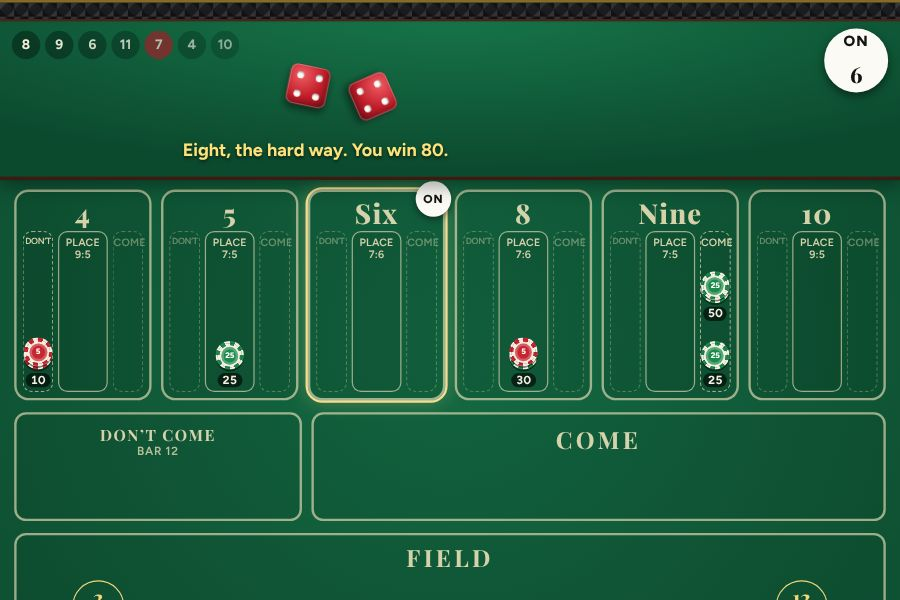
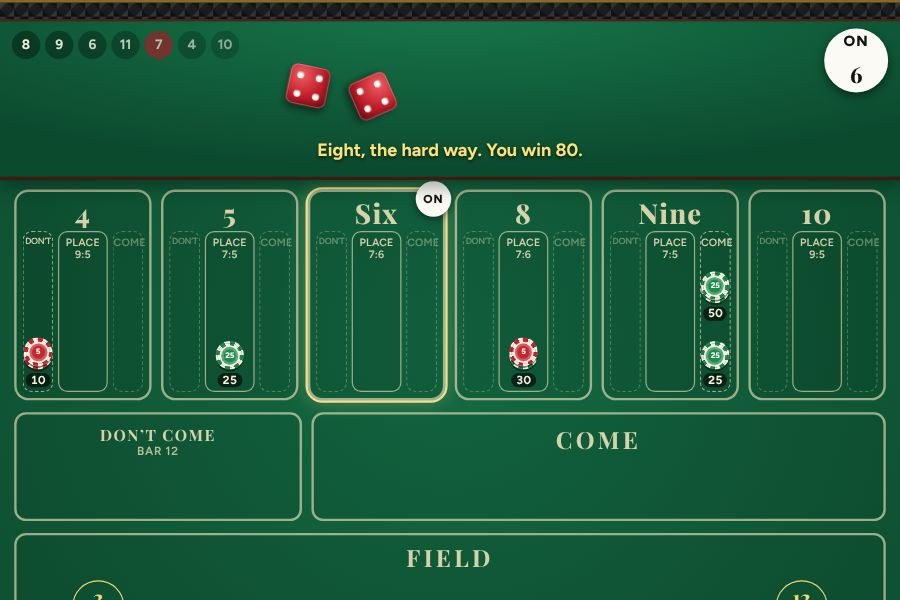
Craps: the stickman's line sits centred in the dice pit on a tablet or a laptop
The line under the dice is held to 34em wide, but its margins were set to 0, so wherever the pit is wider than that (a tablet, a laptop, the floor's picture of the table) it sat at the left edge, off to one side of the dice it describes. Its sides are now auto, so it sits in the middle; on a phone, where it already spans the pit, nothing moves. The floor's picture of craps is made again.

Claude-Session: https://claude.ai/code/session_01PQbLNUqCq985TAYanzzHkW

Changed region(s): [[0.1867, 0.24, 0.6533, 0.27]]

diff --git a/sw.js b/sw.js
@@ -8,7 +8,7 @@
 // fingerprint of every file in SHELL: change any of them and test/e2e.mjs fails until FILES is changed to match (it
 // says what to), which changes this file, so every copy is made whole again at once.
 const CACHE = 'house-money-v8'; // bump the number when the file list changes
-const FILES = '7840bc4a'; // test/e2e.mjs checks this
+const FILES = '89386b1f'; // test/e2e.mjs checks this
 const SHELL = [
   './', 'baccarat/', 'blackjack/', 'cherry-bell/', 'craps/', 'motherlode/', 'odds-and-ends/', 'records/',
   'roulette/', 'video-poker/', '404.html', 'baccarat/css/baccarat.css', 'baccarat/index.html', 'baccarat/js/app.js',

diff --git a/craps/css/craps.css b/craps/css/craps.css
@@ -42,7 +42,7 @@
 .puck.on { background: #fbfaf5; color: #141414; }
 .puck b { display: block; }
 .puck span { display: block; font: 800 1.15rem/1 var(--serif); letter-spacing: 0; margin-top: 2px; }
-.pit .say { position: absolute; left: 8px; right: 8px; bottom: 2px; margin: 0; min-height: 2.6em; font-size: .95rem; text-shadow: 0 1px 3px rgba(0, 0, 0, .6); }
+.pit .say { position: absolute; left: 8px; right: 8px; bottom: 2px; margin: 0 auto; min-height: 2.6em; font-size: .95rem; text-shadow: 0 1px 3px rgba(0, 0, 0, .6); }
 
 .dice { position: absolute; inset: 0; pointer-events: none; }
 .die {
